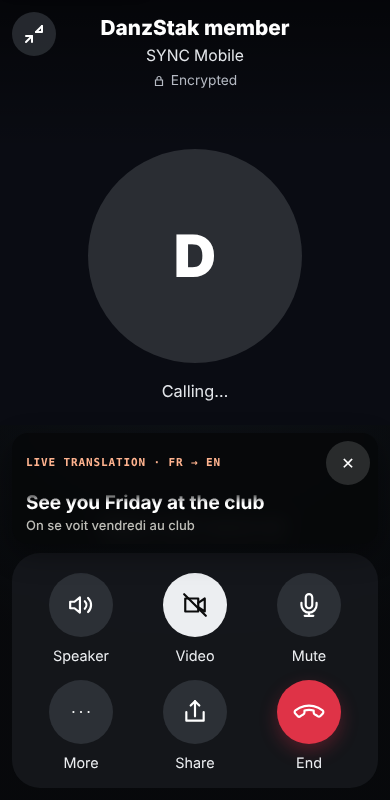
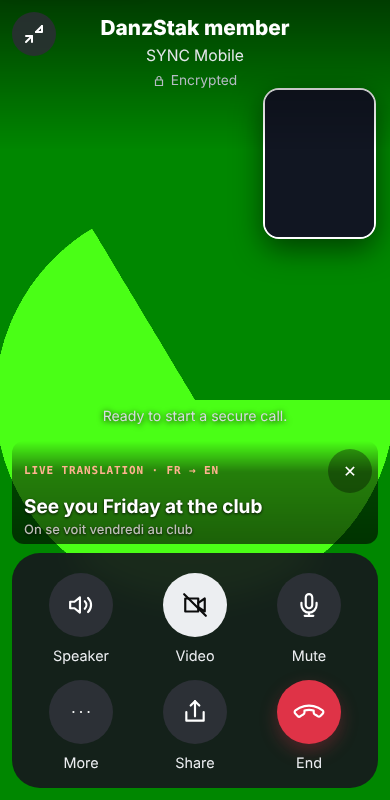
Captions stay over the video: the picture keeps the whole screen
Owner 2026-11-25: "Still need to make the video visible as well". On a video
call the captions are subtitles over the bottom of the picture (soft shade, no
box or blur, last two lines) and the video never shrinks; they drop to the
bottom edge when the call buttons step aside, and the status line sits above
them. The browser check now plays a camera as the other person and checks the
video keeps its full size.

Claude-Session: https://claude.ai/code/session_01B3uuzLno63y6DZnHbr4BvF

diff --git a/assets/call-translate.css b/assets/call-translate.css
@@ -1,6 +1,7 @@
-/* Task 21: live translated captions in SYNC calls (assets/call-translate.js). A band above the call buttons; the video
-   ends above it (--call-caption-reach) and a call note sits above it (--call-caption-h). */
-body[data-call-mode="video"][data-call-captions="on"] .video-grid{bottom:max(var(--call-caption-reach,0px),var(--call-note-band,0px))!important}
+/* Task 21: live translated captions in SYNC calls (assets/call-translate.js). A band above the call buttons; a call note
+   sits above it (--call-caption-h). On a video call (owner 2026-11-25: "Still need to make the video visible as well")
+   the video keeps the whole screen and the captions are subtitles over the bottom of the picture: no box, a soft shade,
+   the last two lines only, and they drop to the bottom edge when the call buttons step aside. */
 .call-captions{position:fixed;z-index:29;left:12px;right:12px;bottom:calc(var(--call-panel-h,112px) + 8px);display:grid;gap:6px;padding:8px 8px 10px 14px;border-radius:16px;background:rgba(6,7,9,.82);backdrop-filter:blur(10px);color:#fff;box-shadow:0 10px 28px rgba(0,0,0,.4)}
 .call-captions-head{display:flex;align-items:center;gap:8px}
 .call-captions-label{flex:1;min-width:0;color:#ffb38f;font:700 11px/1.3 ui-monospace,"JetBrains Mono",monospace;letter-spacing:.08em;text-transform:uppercase}
@@ -23,5 +24,12 @@ body[data-call-mode="video"][data-call-captions="on"] .video-grid{bottom:max(var
 .call-translate-go,.call-translate-quiet{min-height:44px;padding:0 20px;border:0;border-radius:999px;font:800 15px system-ui,sans-serif}
 .call-translate-go{background:var(--ds-btn-go,#15803d);color:#fff}
 .call-translate-quiet{background:rgba(255,255,255,.14);color:#fff}
+body[data-call-mode="video"] .call-captions{gap:2px;padding:8px 6px 6px 12px;border-radius:12px;background:linear-gradient(to bottom,rgba(0,0,0,0),rgba(0,0,0,.5) 30%,rgba(0,0,0,.62));backdrop-filter:none;box-shadow:none;transition:bottom .2s ease}
+body[data-call-mode="video"] .call-captions-stop{width:44px;height:44px;background:rgba(0,0,0,.35)}
+body[data-call-mode="video"] .call-captions-lines{max-height:none;mask-image:none}
+body[data-call-mode="video"] .call-caption:not(:nth-last-child(-n+2)){display:none}
+body[data-call-mode="video"] .call-caption-text,body[data-call-mode="video"] .call-caption-original{text-shadow:0 1px 3px rgba(0,0,0,.9)}
+body[data-call-mode][data-call-captions="on"] .conversation-status{bottom:calc(var(--call-panel-h) + 10px + var(--call-caption-h,0px))}/* the status line sits above the captions, never behind them */
+body[data-call-mode="video"][data-call-chrome="hidden"] .call-captions{bottom:calc(10px + env(safe-area-inset-bottom,0px))}
 @keyframes call-caption-in{from{opacity:0;transform:translateY(6px)}to{opacity:1;transform:none}}
-@media(prefers-reduced-motion:reduce){.call-caption{animation:none}}
+@media(prefers-reduced-motion:reduce){.call-caption{animation:none}body[data-call-mode="video"] .call-captions{transition:none}}

diff --git a/assets/call-translate.js b/assets/call-translate.js
@@ -6,7 +6,8 @@
 //   translated?"); nothing leaves either phone until they allow it. Then each phone streams only its OWN microphone to
 //   Amazon Transcribe (signed address from the Auth API, call-translate.mjs) and sends the words over the call's own
 //   data channel. The other phone translates them into its language (Amazon Translate) and shows them as captions that
-//   roll like a teleprompter above the call buttons; the video ends above them.
+//   roll like a teleprompter above the call buttons. On a video call the video keeps the whole screen and the captions
+//   are subtitles over its bottom edge (owner 2026-11-25: "Still need to make the video visible as well").
 // - Either person can stop it (✕ on the captions, or More → Stop live translation); it stops on both phones at once.
 // - Muting the call mutes the captions too (a muted microphone sends silence).
 // - Nothing is stored. Free for testers for now: today's minutes per account come from the server.
@@ -114,12 +115,11 @@
   }
   function fit() {
     const body = document.body;
-    if (!band?.isConnected) { body.style.removeProperty("--call-caption-h"); body.style.removeProperty("--call-caption-reach"); delete body.dataset.callCaptions; return; }
+    if (!band?.isConnected) { body.style.removeProperty("--call-caption-h"); delete body.dataset.callCaptions; return; }
     body.dataset.callCaptions = "on";
-    const box = band.getBoundingClientRect();
     // Not --call-subtitle-band: that one lifts the call panel itself (sync-call-ui.css) and would push it under the band.
-    body.style.setProperty("--call-caption-h", `${Math.ceil(box.height + 8)}px`); // a call note sits above the captions
-    body.style.setProperty("--call-caption-reach", `${Math.max(0, Math.ceil(window.innerHeight - box.top + 8))}px`); // the video ends above them
+    // The video never shrinks for captions; only a call note moves up to stay clear of them.
+    body.style.setProperty("--call-caption-h", `${Math.ceil(band.getBoundingClientRect().height + 8)}px`);
   }
   window.addEventListener("resize", () => { if (band) fit(); });
   function paintLine(line) {
